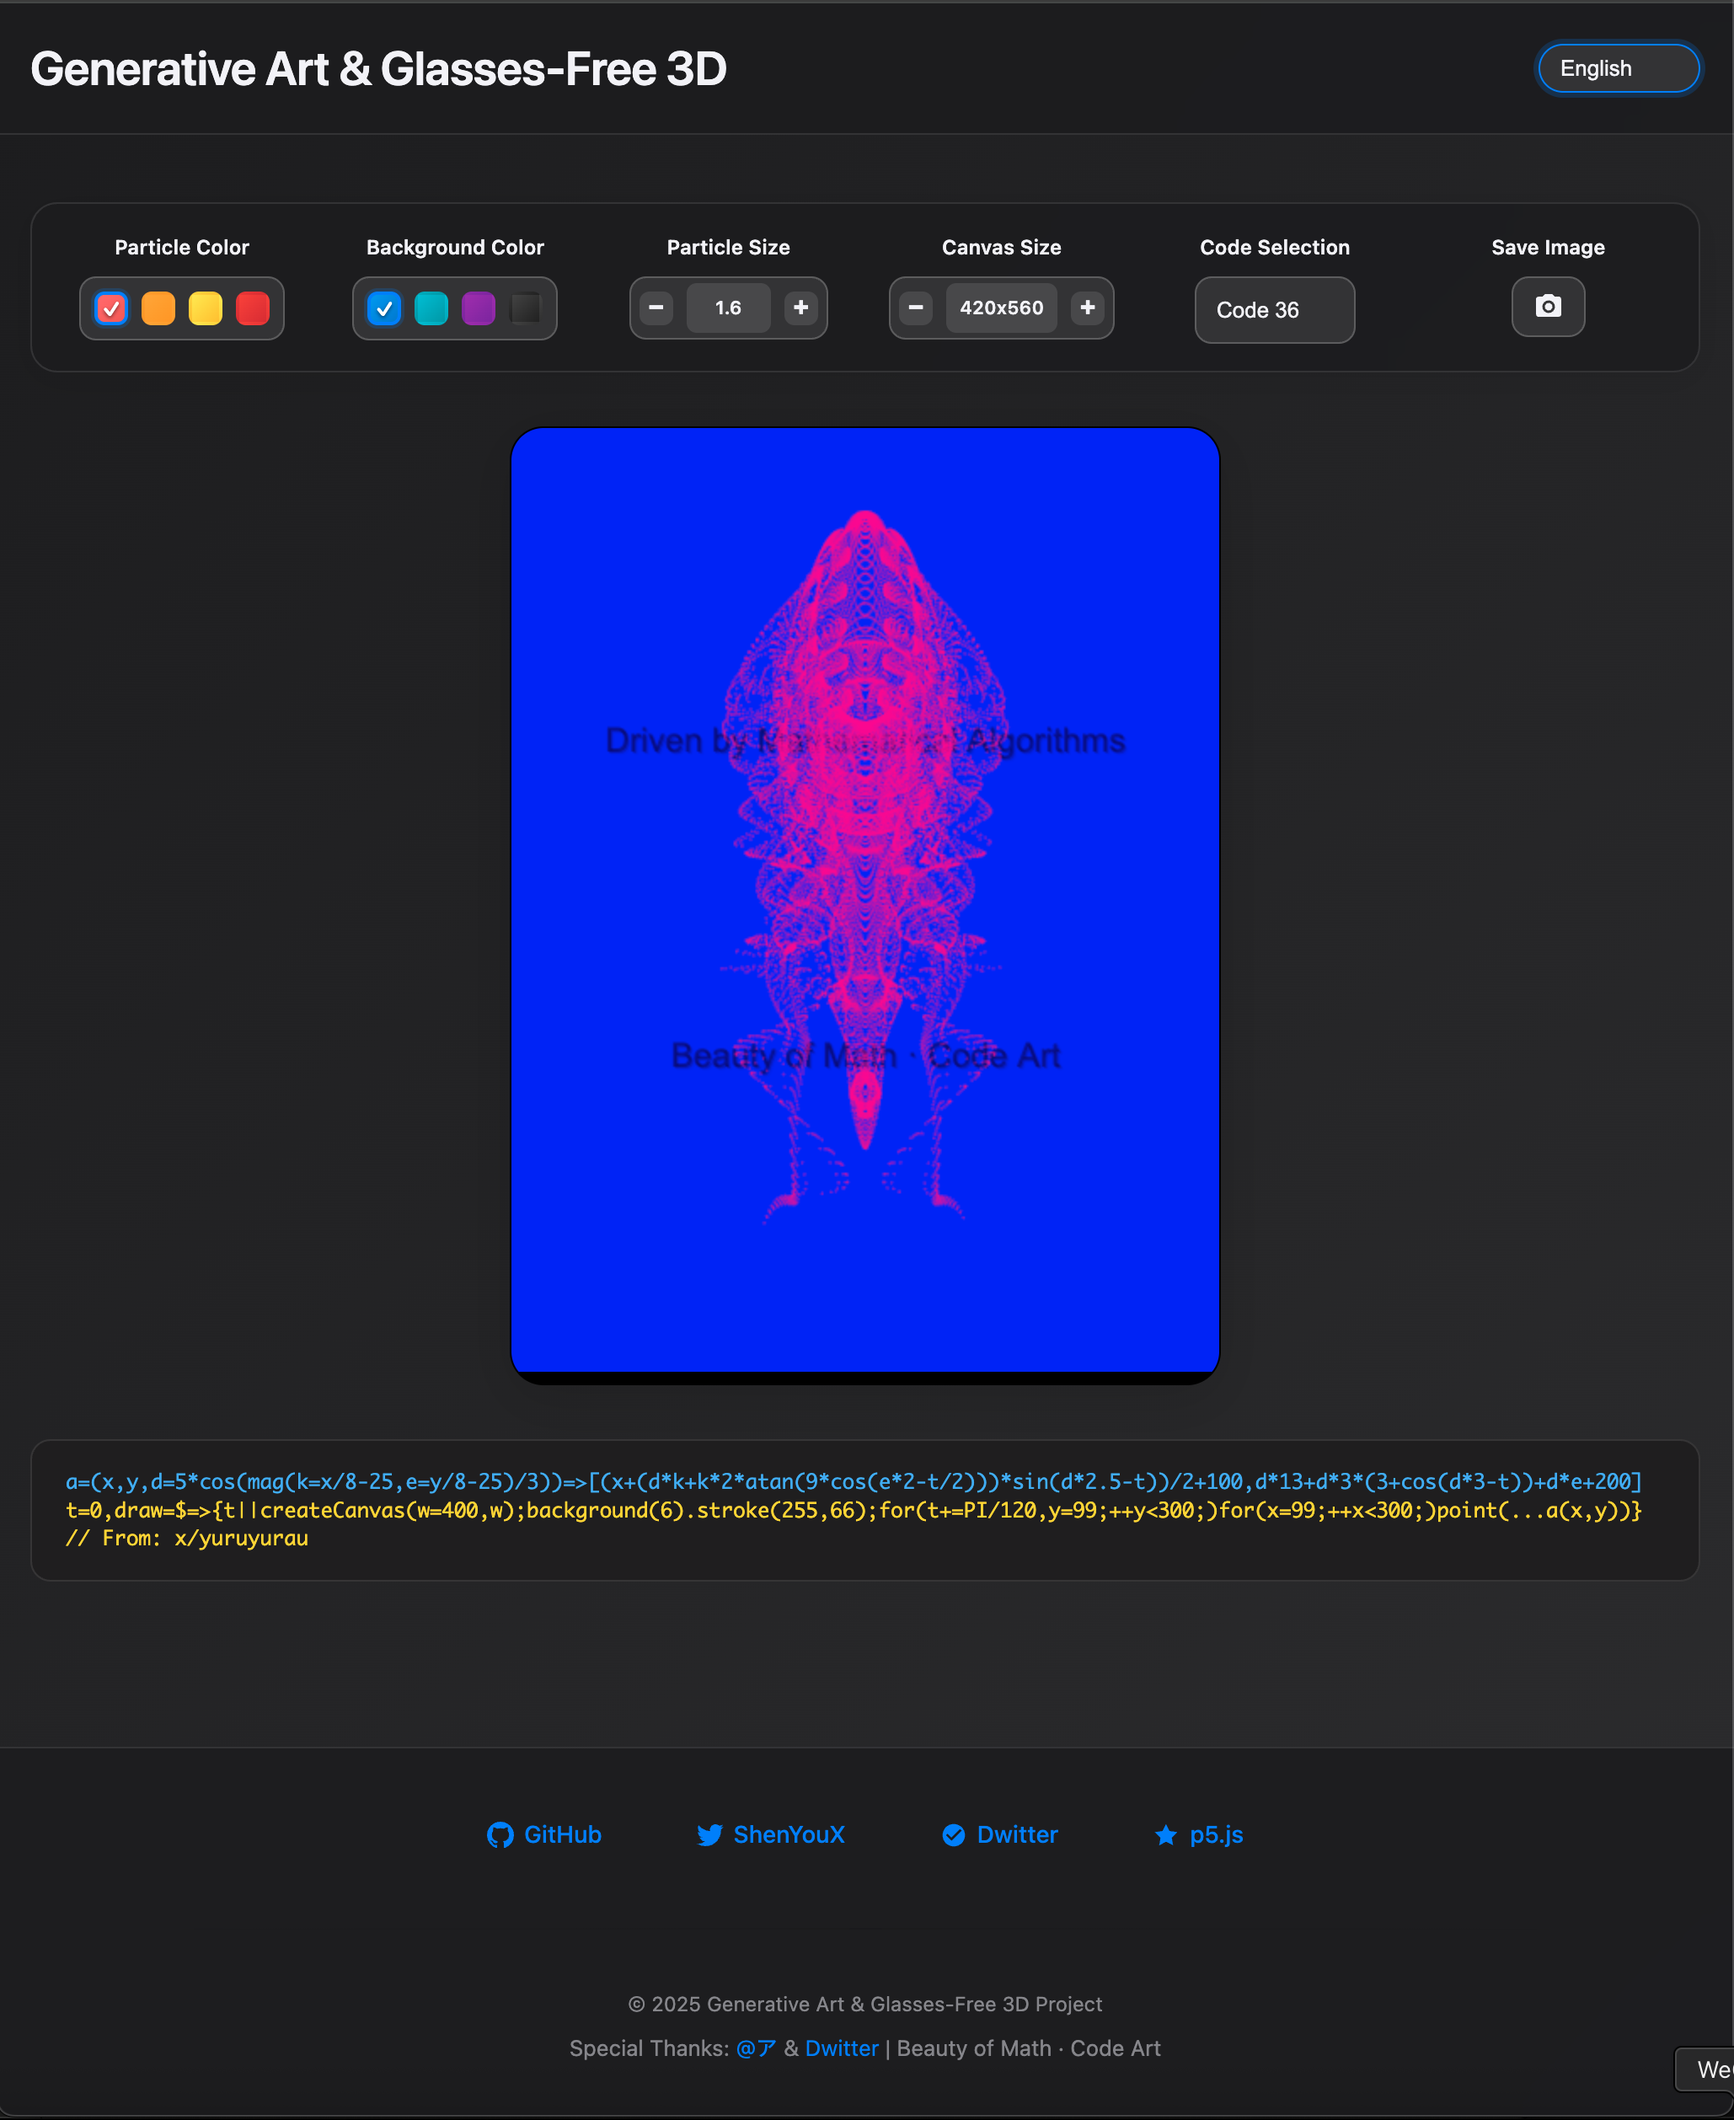
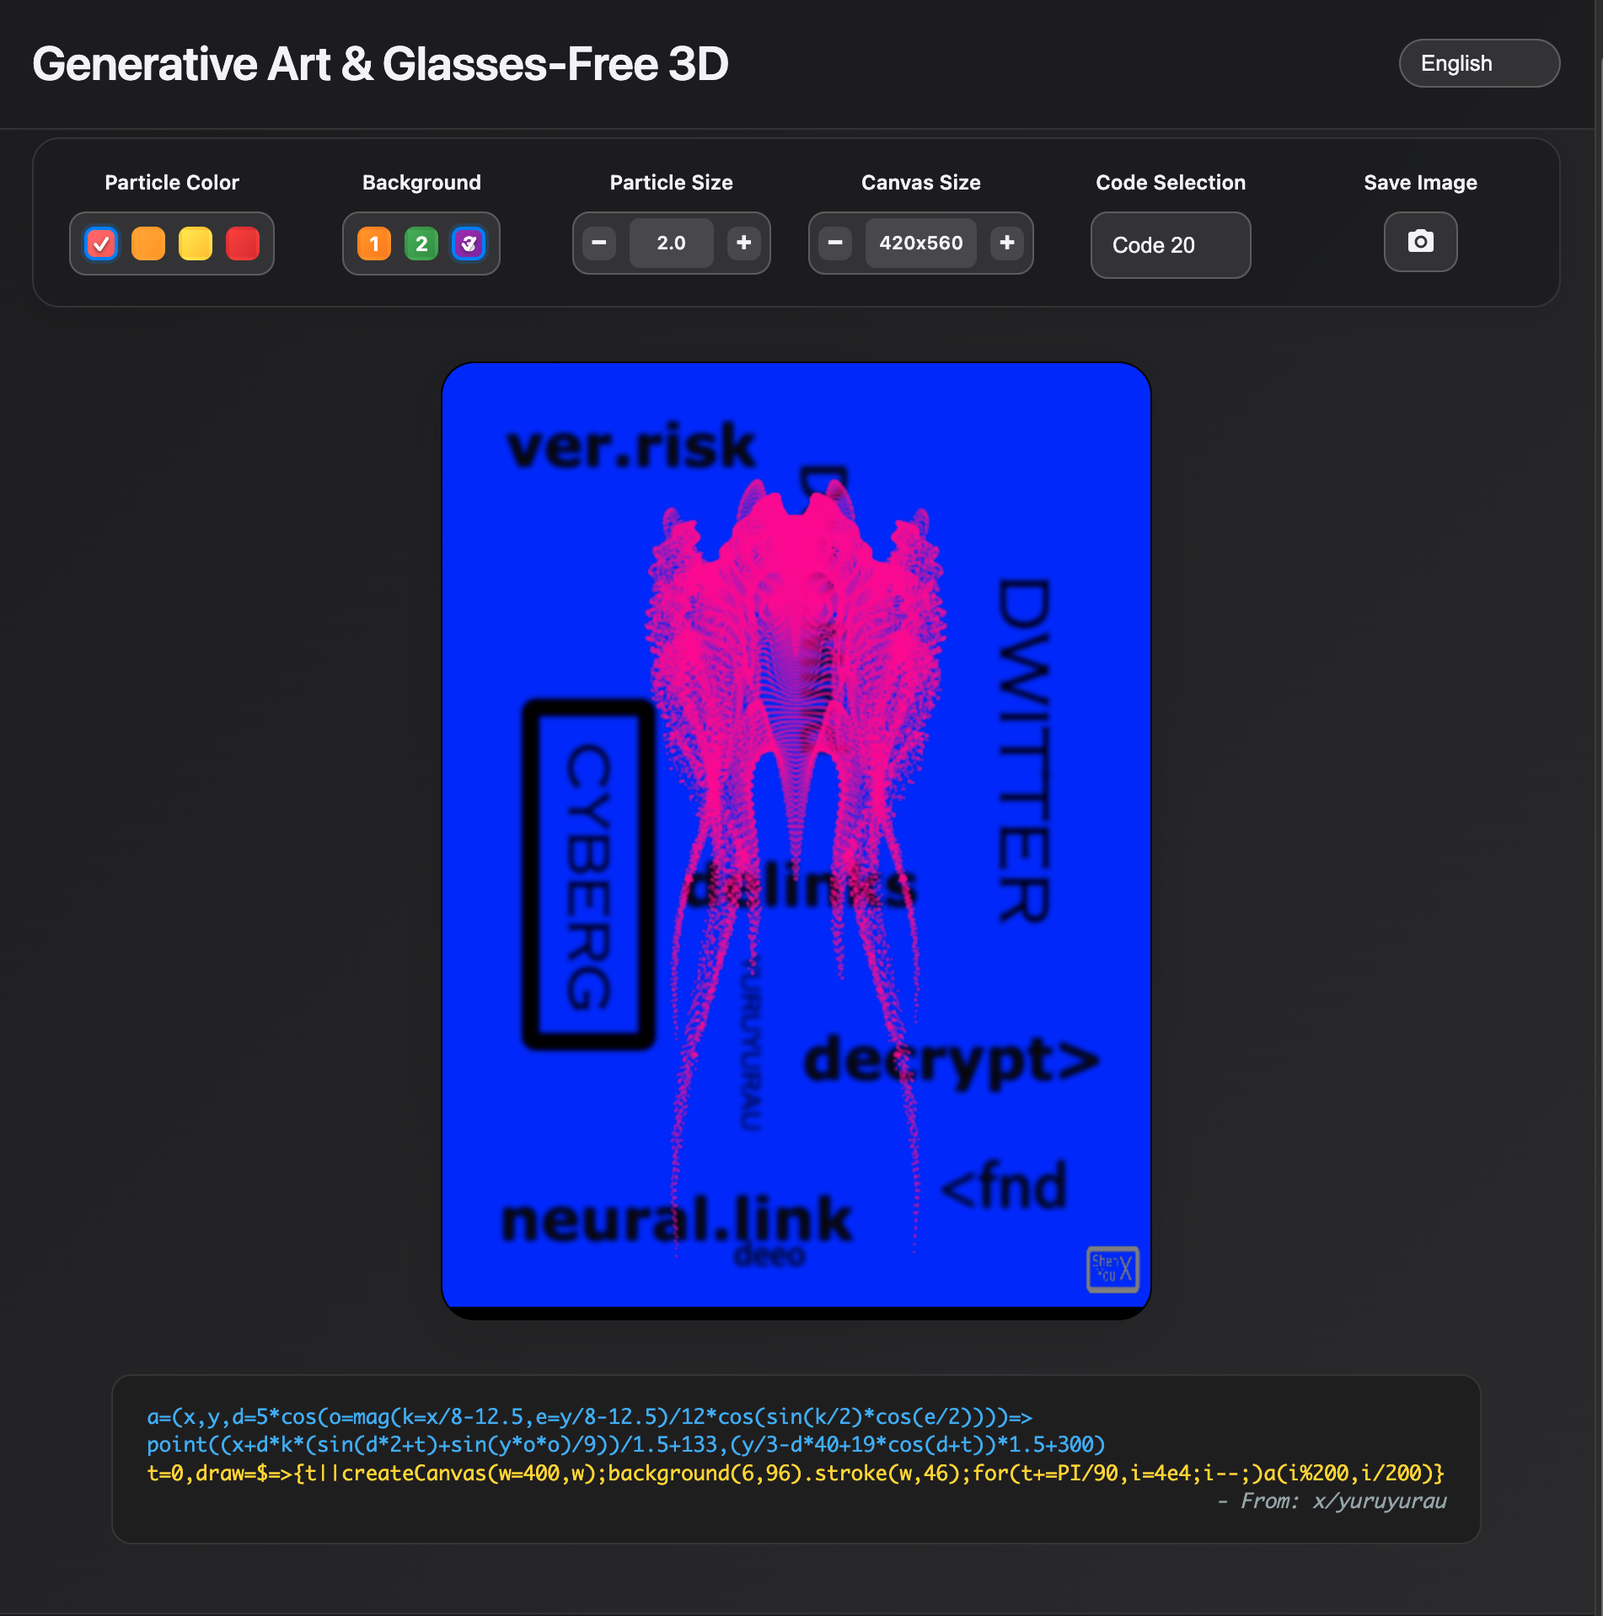
minor changes

diff --git a/genart3d.html b/genart3d.html
@@ -635,9 +635,7 @@
             <div class="control-group">
                 <label class="control-label" id="bg-label">Background</label>
                 <div class="color-selector" role="radiogroup" aria-labelledby="bg-label" id="background-options">
-                    <div class="color-option bg-blue active" data-type="color" data-value="blue" role="radio" aria-checked="true" aria-label="Blue" tabindex="0"></div>
-                    <div class="color-option bg-black" data-type="color" data-value="black" role="radio" aria-checked="false" aria-label="Black" tabindex="-1"></div>
-                    <div class="color-option bg-image-1" data-type="image" data-value="0" role="radio" aria-checked="false" aria-label="Background 1" tabindex="-1">1</div>
+                    <div class="color-option bg-image-1 active" data-type="image" data-value="0" role="radio" aria-checked="true" aria-label="Background 1" tabindex="0">1</div>
                     <div class="color-option bg-image-2" data-type="image" data-value="1" role="radio" aria-checked="false" aria-label="Background 2" tabindex="-1">2</div>
                     <div class="color-option bg-image-3" data-type="image" data-value="2" role="radio" aria-checked="false" aria-label="Background 3" tabindex="-1">3</div>
                 </div>
@@ -732,7 +730,7 @@
         const CONFIG = {
             particleColor: 'red',
             backgroundColor: 'blue',
-            backgroundImage: 'none',
+            backgroundImage: '0',
             currentCode: 'code1',
             particleSize: 1.6,
             canvasBase: 140,

diff --git a/README_zh.md b/README_zh.md
@@ -130,7 +130,7 @@ npx http-server
 2. **调整颜色**：点击色彩选择器改变粒子和背景
 3. **调节大小**：使用+/-按钮调整粒子大小和画布尺寸
 4. **切换语言**：从语言下拉菜单选择界面语言
-5. **保存图像**：点击照相机图标保存当前艺术作品为PNG文件
+5. **保存图像**：点击照相机图标保存当前艺术作品为PNG文件，文件名自动生成，例如：`generative-art-code20-2025-07-28_16-52-55.png`
 
 ### 参数说明
 - **代码选择**：48种不同的数学算法，每种产生独特效果
@@ -138,7 +138,7 @@ npx http-server
 - **背景**：   选择画布背景图片
 - **粒子大小**：控制点的绘制粗细
 - **画布大小**：调整整个画布的尺寸
-- **保存图像**：将当前画布内容保存为PNG文件，文件名格式为 `generative-art-{代码版本}-{时间戳}.png`
+- **保存图像**：将当前画布内容保存为PNG文件
 
 ## 数学原理
 

diff --git a/README_ja.md b/README_ja.md
@@ -126,7 +126,7 @@ npx http-server
 2. **色の調整**：パーティクルと背景の色を変更します。
 3. **サイズの調整**：「+」「-」ボタンでパーティクルとキャンバスのサイズを調整します。
 4. **言語の切替**：お好みの言語を選択します。
-5. **画像の保存**：カメラアイコンをクリックすると、表示中のアートがPNG形式で保存されます。ファイル名は `generative-art-5-1672531200.png` のように自動生成されます。
+5. **画像の保存**：カメラアイコンをクリックすると、表示中のアートがPNG形式で保存されます。ファイル名は `generative-art-code20-2025-07-28_16-52-55.png` のように自動生成されます。
 
 ### パラメータガイド
 - **コード選択**：48種類の数式アルゴリズムから、それぞれ異なるビジュアルを選択します。

diff --git a/README.md b/README.md
@@ -126,7 +126,7 @@ npx http-server
 2. **Adjust Colors**: Change particle colors and background.
 3. **Adjust Sizes**: Use the +/- buttons to change particle and canvas sizes.
 4. **Switch Language**: Select your preferred language.
-5. **Save Image**: Click the camera icon to save the artwork as a high-quality PNG file. The filename is automatically generated (e.g., `generative-art-5-1672531200.png`).
+5. **Save Image**: Click the camera icon to save the artwork as a high-quality PNG file. The filename is automatically generated (e.g., `generative-art-code20-2025-07-28_16-52-55.png`).
 
 ### Parameter Guide
 - **Code Selection**: Choose from 48 different mathematical algorithms, each creating a unique visual.
